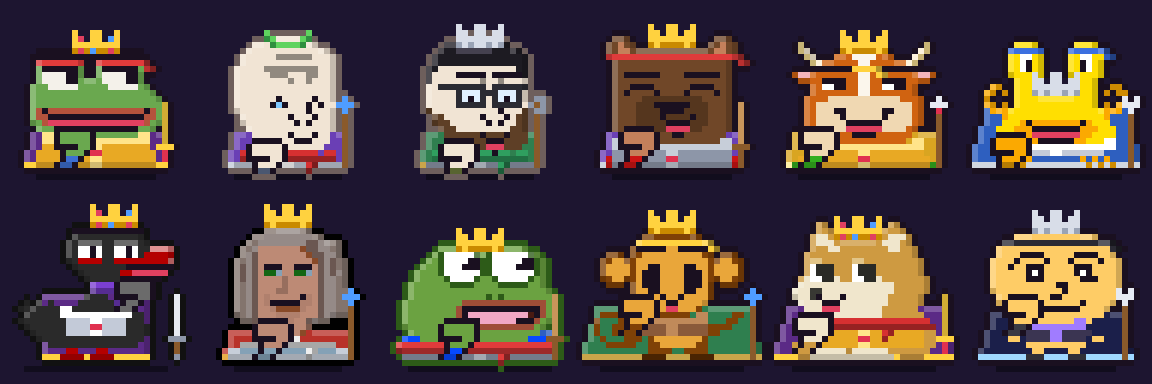
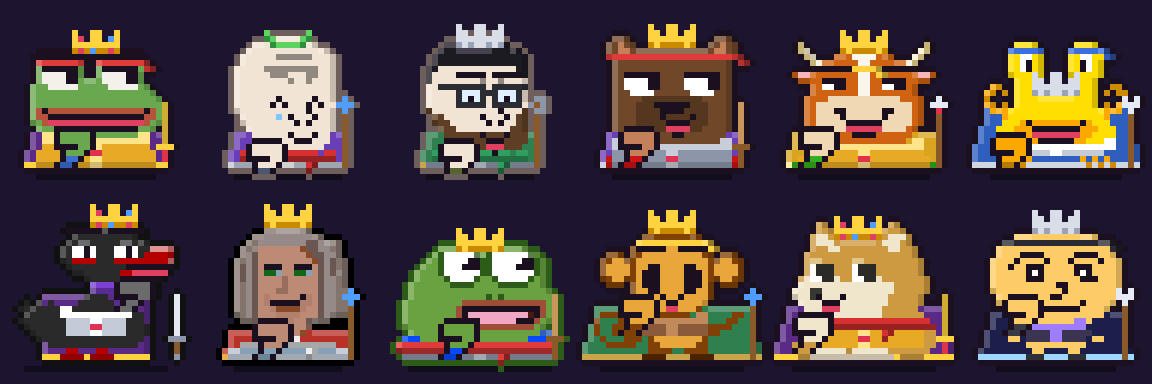
Fix bounce flashing on galaxy/checker pets; Bobo/Dodo/Chud/Wojak art fixes (pet-core 3.14.0)

Changed region(s): [[0.5312, 0.1875, 0.625, 0.25], [0.0312, 0.625, 0.125, 0.7188]]

diff --git a/js/pet-core.js b/js/pet-core.js
@@ -18,7 +18,7 @@
 })(typeof self !== 'undefined' ? self : this, function () {
   'use strict';
 
-  var VERSION = 'xcpets-pet-core/3.13.0-promo';
+  var VERSION = 'xcpets-pet-core/3.14.0-promo';
   var N = 32;
 
   // ------------------------------------------------------------------ SHA-256
@@ -252,6 +252,7 @@
       pose: { col: 2, row: 17, map: ['.kkkkk.', 'kbbbbbk', 'kbbbbbk', 'kkkkbbk', '.kbbbk.', '.kaak..'] },
       arc: [['Sad', 'base', 'keep', 'base'], ['Doubtful', 'halflid', 'keep', 'flat'], ['Calm', 'base', 'none', 'flat'],
         ['Hopeful', 'base', 'raised', 'smile'], ['Enlightened', 'closed', 'none', 'smile']],
+      tearDrop: { 5: 2 }, // v3.14: at Mythic the tear sits on the cheek, two rows below the closed eye
       // classic Wojak: tall oval bald head, moderate brow area with forehead creases, eyes at mid-height looking aside,
       // eyes = white sclera + dark pupil with an ink upper lid (eyeLid) so the whites read on pale skin
       map: [
@@ -315,7 +316,7 @@
       gear: { armor: [18, 21, 1], band: 3, scarf: 16, cape: 17 },
       pose: { col: 2, row: 15, map: ['.kkkkk.', 'klllllk', 'klllllk', 'kkkkllk', '.klllk.', '.kaak..', 'kaak...'] },
       arc: [['Gloomy', 'base', 'keep', 'base'], ['Grumpy', 'base', 'angry', 'frown'], ['Steady', 'base', 'keep', 'flat'],
-        ['Cheerful', 'base', 'raised', 'smile'], ['Jolly', 'closed', 'none', 'cheer']],
+        ['Cheerful', 'base', 'raised', 'smile'], ['Jolly', 'base', 'none', 'cheer']], // v3.14: Mythic keeps the smug open eyes,
       // Bitcoin-Stamp-style bear: big square head, round ears (tan insides), dark muzzle block + black nose,
       // Pepe-style heavy, half-lidded smug eyes (ink lid, whites, pupils to one side), red shirt.
       // Black pixel shades are an occasional accessory (~25%, see shades / render); off at Mythic.
@@ -406,7 +407,7 @@
         '..a.a.a..........a.a.a..'
       ] },
     { id: 'dodo', label: 'Dodo', w: 10, t: 3, canon: { body: '#2a2a2a', accent: '#b40000', belly: '#4a4a4a' },
-      colors: { '5': '#6b6b6b', '6': '#7a0000', '7': { from: 'accent', light: 0.45 } }, outline: '#111111', eyeWhite: '#ffffff', eyeSplit: 15,
+      colors: { '5': '#6b6b6b', '6': '#7a0000', '7': { from: 'accent', light: 0.45 } }, outline: '#111111', eyeWhite: '#ffffff', eyeSplit: 14,
       gear: { armor: [14, 17, 8], cape: 12, capeHalf: 9, band: 1, scarf: 9, crownCol: 16 },
       pose: { col: 16, row: 8, map: ['.kkkkk.', 'k55555k', 'k55555k', 'kkkk55k', '.k55k..', 'k55k...'] },
       // v3.10: Determined keeps the eyes open (the 2-px eyes are 1 px at Adult scale, so a half lid would erase them) and Serene
@@ -420,15 +421,17 @@
       // v3.11: bigger head (rows 0-8, 15 px wide; the neck is one row shorter so body/gear rows are unchanged), eyes moved up
       // two rows, and a bolder full-length beak: light-red top highlight ('7' = accent lightened), red upper bill, ink smirk
       // line, red lower bill with a dark-red ('6') underside. Headband moved up to row 1 so it never covers the lids.
+      // v3.14: rounder head (stepped crown, one column wider on the left), grey lids cut to 2 px per eye (over the pupil side),
+      // and the eyes spaced 3 px apart instead of 2 (eyeSplit 14).
       map: [
-        '...........bbbbbbbb.......',
-        '.........bbbbbbbbbbbb.....',
-        '........bb5555bb5555bb....',
-        '........bbEEPEbbEEPEbb7777',
-        '........bbEEPEbbEEPEbaaaaa',
-        '........bbaaaabbaaaaaaaaa7',
-        '.........bbbbbbbbbmmmmmmmm',
-        '..........bbbbbbbaaaaaaa6.',
+        '...........bbbbbbb........',
+        '.........bbbbbbbbbbb......',
+        '........bb55bbbbb55bbb....',
+        '.......bbEEPEbbbEEPEbb7777',
+        '.......bbEEPEbbbEEPEbaaaaa',
+        '.......bbaaaabbbaaaaaaaaa7',
+        '........bbbbbbbbbbmmmmmmmm',
+        '.........bbbbbbbbaaaaaaa6.',
         '...........bbbbbb666666...',
         '............bbbbb.........',
         '............bbbb..........',
@@ -927,9 +930,10 @@
       placeSprite(cv, sp, box);
       a = anchors(cv, box);
       eyes0 = a.eyes.slice(); // eye boxes before expressions (glasses keep their place when eyes close)
-      applyPattern(cv, pet, a, digest);
+      applyPattern(cv, pet, a, digest, bob);
       if (gear.armor) drawArmor(cv, sp, box, a);
       applyExpression(cv, sp, a, stage);
+      if (sp.tearDrop && sp.tearDrop[stage]) dropTears(cv, sp.tearDrop[stage]);
       a = anchors(cv, box);
       applyEyeTrait(cv, pet, a);
       if (sp.eyeLid) {
@@ -938,7 +942,7 @@
         else drawEyeLids(cv, a);
       }
       // Chud: clear eyeglasses are part of the base look (not a trait) and stay on at every stage, Mythic included
-      if (sp.glasses) drawGlasses(cv, eyes0);
+      if (sp.glasses) { drawGlasses(cv, eyes0); levelEyesInGlasses(cv, eyes0); }
       if (sp.shades && hasShades(pet, sp, stage)) drawShades(cv, a);
       if (gear.band) drawBand(cv, pet, sp, box, a);
       // Mythic only: the smug hand-to-chin thinking pose (drawn over armor/band; weapons stay on the other side)
@@ -1007,8 +1011,10 @@
     if (frame >= 2) for (var c = 0; c < crack.length; c++) cv.paint(cx + crack[c][0], crack[c][1], INK);
   }
 
-  function applyPattern(cv, pet, a, digest) {
-    var x, y, i, k, cy = a.cy, rx = a.rx, ry = a.ry, f = a.face;
+  /** bob = this frame's bounce offset (0 or -1). Canvas-anchored patterns use the sprite-relative row (y - bob) so
+   *  they move with the pet; otherwise the bounce frames re-roll the galaxy speckles / shift the checker under it. */
+  function applyPattern(cv, pet, a, digest, bob) {
+    var x, y, i, k, ys, cy = a.cy, rx = a.rx, ry = a.ry, f = a.face;
     function inFace(x2, y2) { return f && x2 >= f.minX - 1 && x2 <= f.maxX + 1 && y2 >= f.minY - 1 && y2 <= f.maxY + 1; }
     function isBody(x2, y2) { return cv.key[y2 * N + x2] === 'body' && !inFace(x2, y2); }
     switch (pet.pattern) {
@@ -1029,15 +1035,16 @@
         for (y = a.eyeY - 1; y <= a.eyeY + 1; y++) for (x = 0; x < N; x++) if (y >= 0 && cv.key[y * N + x] === 'body') cv.key[y * N + x] = 'accent';
         break;
       case 'checker':
-        for (y = 0; y < N; y++) for (x = 0; x < N; x++) if (isBody(x, y) && ((x >> 1) + (y >> 1)) % 2 === 0) cv.key[y * N + x] = 'accent';
+        for (y = 0; y < N; y++) for (x = 0; x < N; x++) if (isBody(x, y) && ((x >> 1) + ((y - (bob || 0)) >> 1)) % 2 === 0) cv.key[y * N + x] = 'accent';
         break;
       case 'twotone':
         for (y = 0; y < N; y++) for (x = 0; x < N; x++) if (isBody(x, y) && x >= 16) cv.key[y * N + x] = 'belly';
         break;
       case 'galaxy':
         for (y = 0; y < N; y++) for (x = 0; x < N; x++) if (isBody(x, y)) {
-          k = digest[(x * 7 + y * 13) % 32];
-          cv.key[y * N + x] = (k % 11 === 0) ? 'galstar' : ((x + y) % 5 === 0 ? 'accent' : 'gal');
+          ys = y - (bob || 0);
+          k = digest[(x * 7 + ys * 13) % 32];
+          cv.key[y * N + x] = (k % 11 === 0) ? 'galstar' : ((x + ys) % 5 === 0 ? 'accent' : 'gal');
         }
         break;
       case 'rainbow':
@@ -1048,6 +1055,17 @@
   }
 
   // ------------------------------------------------------------- Expression
+  /** Move every tear pixel down by d rows onto the cheek (only onto plain body pixels); the old spot gets the skin back. */
+  function dropTears(cv, d) {
+    var moved = [], i;
+    for (i = 0; i < N * N; i++) if (cv.key[i] === 'tear') moved.push(i);
+    moved.forEach(function (i0) {
+      var x = i0 % N, y = Math.floor(i0 / N);
+      var t = cv.getKey(x, y + d);
+      cv.key[i0] = fillKeyNear(cv, x + 1, y);
+      if (t && !FACE_KEYS[t] && t !== 'outline') cv.key[(y + d) * N + x] = 'tear';
+    });
+  }
   function fillKeyNear(cv, x, y) {
     var cand = [cv.getKey(x, y)];
     for (var i = 0; i < cand.length; i++) { var k = cand[i]; if (k && !FACE_KEYS[k]) return k; }
@@ -1132,6 +1150,21 @@
     for (x = L.maxX + 2; x <= R.minX - 2; x++) cv.setKey(x, L.minY, 'frame');
     for (x = L.minX - 2; x >= L.minX - 4 && cv.isSil(x, L.minY - 1); x--) cv.setKey(x, L.minY - 1, 'frame');
     for (x = R.maxX + 2; x <= R.maxX + 4 && cv.isSil(x, R.minY - 1); x++) cv.setKey(x, R.minY - 1, 'frame');
+  }
+  /** v3.14: after scaling + expressions one eye behind the glasses can lose its pupil and end up as a 2-px white blob
+   *  stuck in the top corner of its lens (Chud Adult). If exactly one lens has no pupil and both lens interiors are the
+   *  same size, redraw it with the other lens's eye (lid / white / pupil rows), so both eyes sit level and centred. */
+  function levelEyesInGlasses(cv, eyes) {
+    if (eyes.length < 2) return;
+    var lens = eyes.map(function (b) {
+      var x0 = b.minX - 1, x1 = Math.max(b.maxX + 1, b.minX + 3), y0 = b.minY - 1, y1 = Math.max(b.maxY + 1, b.minY + 2), pupil = false, x, y;
+      for (y = y0 + 1; y < y1; y++) for (x = x0 + 1; x < x1; x++) if (cv.getKey(x, y) === 'pupil') pupil = true;
+      return { x0: x0 + 1, y0: y0 + 1, w: x1 - x0 - 1, h: y1 - y0 - 1, pupil: pupil };
+    });
+    var A = lens[0], B = lens[1];
+    if (A.pupil === B.pupil || A.w !== B.w || A.h !== B.h) return;
+    var src = A.pupil ? A : B, dst = A.pupil ? B : A, x, y;
+    for (y = 0; y < src.h; y++) for (x = 0; x < src.w; x++) cv.setKey(dst.x0 + x, dst.y0 + y, cv.getKey(src.x0 + x, src.y0 + y));
   }
   /** Thin ink upper lid over each still-open eye (species with eyeLid: true). */
   function drawEyeLids(cv, a) {
